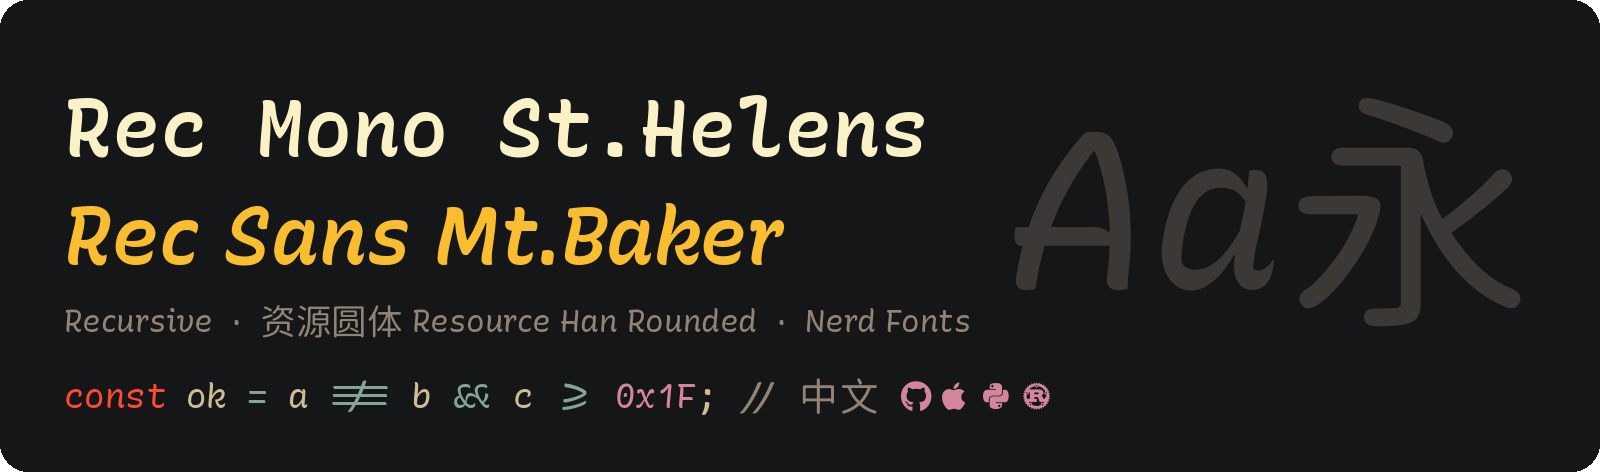
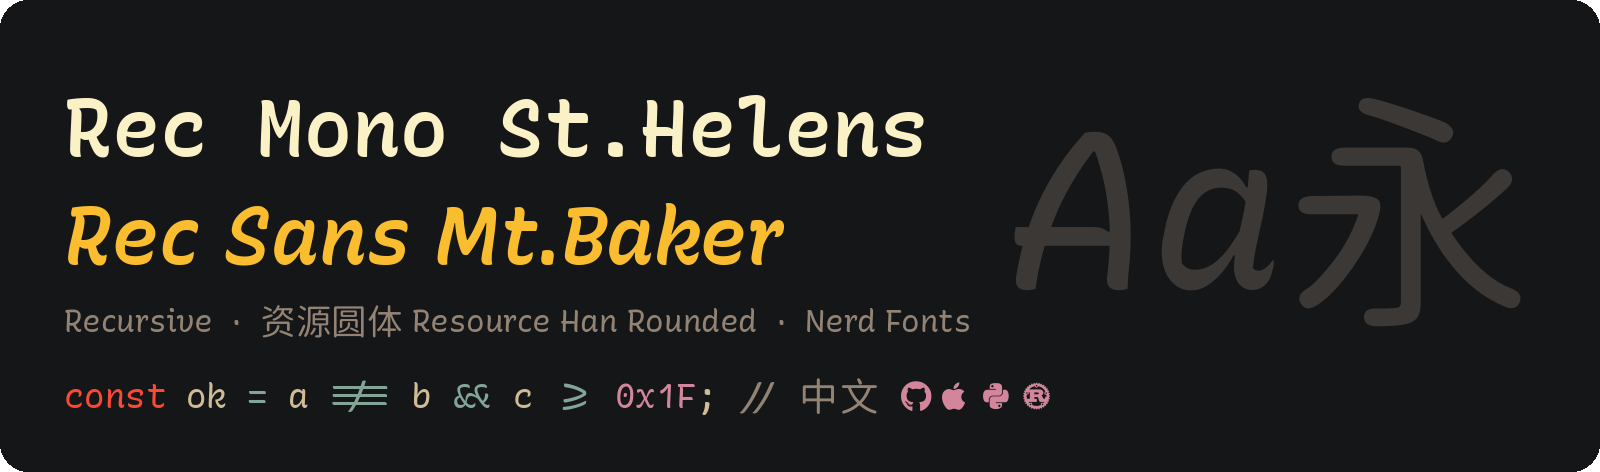
feat: slant Regular and Bold at -2° instead of -4°
Applies to both families (Mt.Baker inherits St.Helens's styles). Italic and
Bold Italic stay at -10°. Previews regenerated. Version policy: axis-value
changes such as slant or weight are a minor bump.

diff --git a/wiki/Fonts-zh-CN.md b/wiki/Fonts-zh-CN.md
@@ -67,7 +67,7 @@ Rec Mountain Fonts 提供两套共用同一设计的字体。St.Helens 用于写
 |---|---|
 | 休闲度（`CASL`） | 1 — Recursive 的休闲笔刷风格 |
 | 手写体（`CRSV`） | 1 — 手写体字形 |
-| 倾斜（`slnt`） | Regular 和 Bold 为 -4°，Italic 和 Bold Italic 为 -10° |
+| 倾斜（`slnt`） | Regular 和 Bold 为 -2°，Italic 和 Bold Italic 为 -10° |
 | 字重（`wght`） | Regular 和 Italic 为 400，Bold 和 Bold Italic 为 600 |
 | 风格集 | ss01–ss12；Mt.Baker 不含 ss10，因此 St.Helens 的零带点，Mt.Baker 的零不带点 |
 

diff --git a/wiki/Fonts.md b/wiki/Fonts.md
@@ -67,7 +67,7 @@ its name and spacing and drops the dotted zero. See [Configuration](Configuratio
 |---|---|
 | Casual (`CASL`) | 1 — the casual, brush-like Recursive design |
 | Cursive (`CRSV`) | 1 — cursive letterforms |
-| Slant (`slnt`) | -4° for Regular and Bold, -10° for Italic and Bold Italic |
+| Slant (`slnt`) | -2° for Regular and Bold, -10° for Italic and Bold Italic |
 | Weight (`wght`) | 400 for Regular and Italic, 600 for Bold and Bold Italic |
 | Stylistic sets | ss01–ss12; Mt.Baker leaves out ss10, so St.Helens has a dotted zero and Mt.Baker a plain one |
 

diff --git a/wiki/Release-Process.md b/wiki/Release-Process.md
@@ -70,6 +70,6 @@ after CI passes.
 
 | Bump | When |
 |---|---|
-| Major | A family is renamed or removed, or its spacing or design defaults change |
-| Minor | An upstream version or a stylistic set changes, or a family or glyph coverage is added |
+| Major | A family is renamed or removed, its spacing changes, or its design changes style (casual or linear, cursive or roman) |
+| Minor | An upstream version, axis value (slant, weight), or stylistic set changes, or a family or glyph coverage is added |
 | Patch | Metadata, naming, or build fixes that leave the glyphs unchanged |

diff --git a/wiki/Release-Process-zh-CN.md b/wiki/Release-Process-zh-CN.md
@@ -65,6 +65,6 @@ flowchart TD
 
 | 升级 | 场景 |
 |---|---|
-| 主版本 | 字体改名或移除，或其字宽、设计默认值改变 |
-| 次版本 | 上游版本或风格集改变，或新增字体、字形覆盖 |
+| 主版本 | 字体改名或移除，字宽改变，或设计风格改变（休闲或直线、手写体或正体） |
+| 次版本 | 上游版本、轴值（倾斜、字重）或风格集改变，或新增字体、字形覆盖 |
 | 补丁版本 | 不改变字形的元数据、命名或构建修复 |
